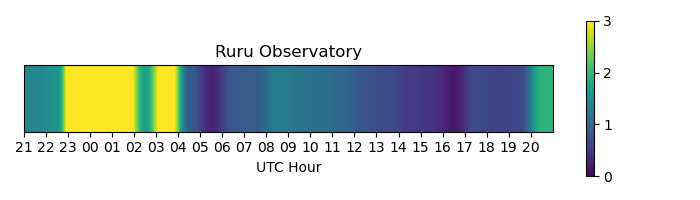
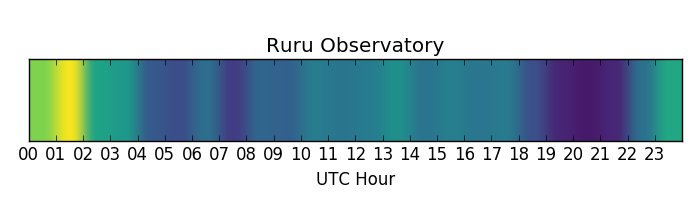
experimenting with changing the heatmap to a vertical chart

diff --git a/dnacore_v3/plot_spark_ruru.py b/dnacore_v3/plot_spark_ruru.py
@@ -1,4 +1,5 @@
 import matplotlib.pyplot as plt
+import PIL
 from datetime import datetime
 
 minvalue = 0
@@ -38,7 +39,9 @@ ax.set_yticks([])
 ax.set_xlabel("UTC Hour")
 ax.set_title(title)
 b = ax.imshow(data, cmap='viridis', interpolation="hanning", vmin=minvalue, vmax=maxvalue, extent=(0,24,0,3))
-plt.colorbar(b)
+
+# b = ax.imshow(data, cmap='viridis', interpolation="hanning", vmin=minvalue, vmax=maxvalue)
+# plt.colorbar(b)
 fig.tight_layout()
 plt.savefig(savefile)
 plt.close('all')
